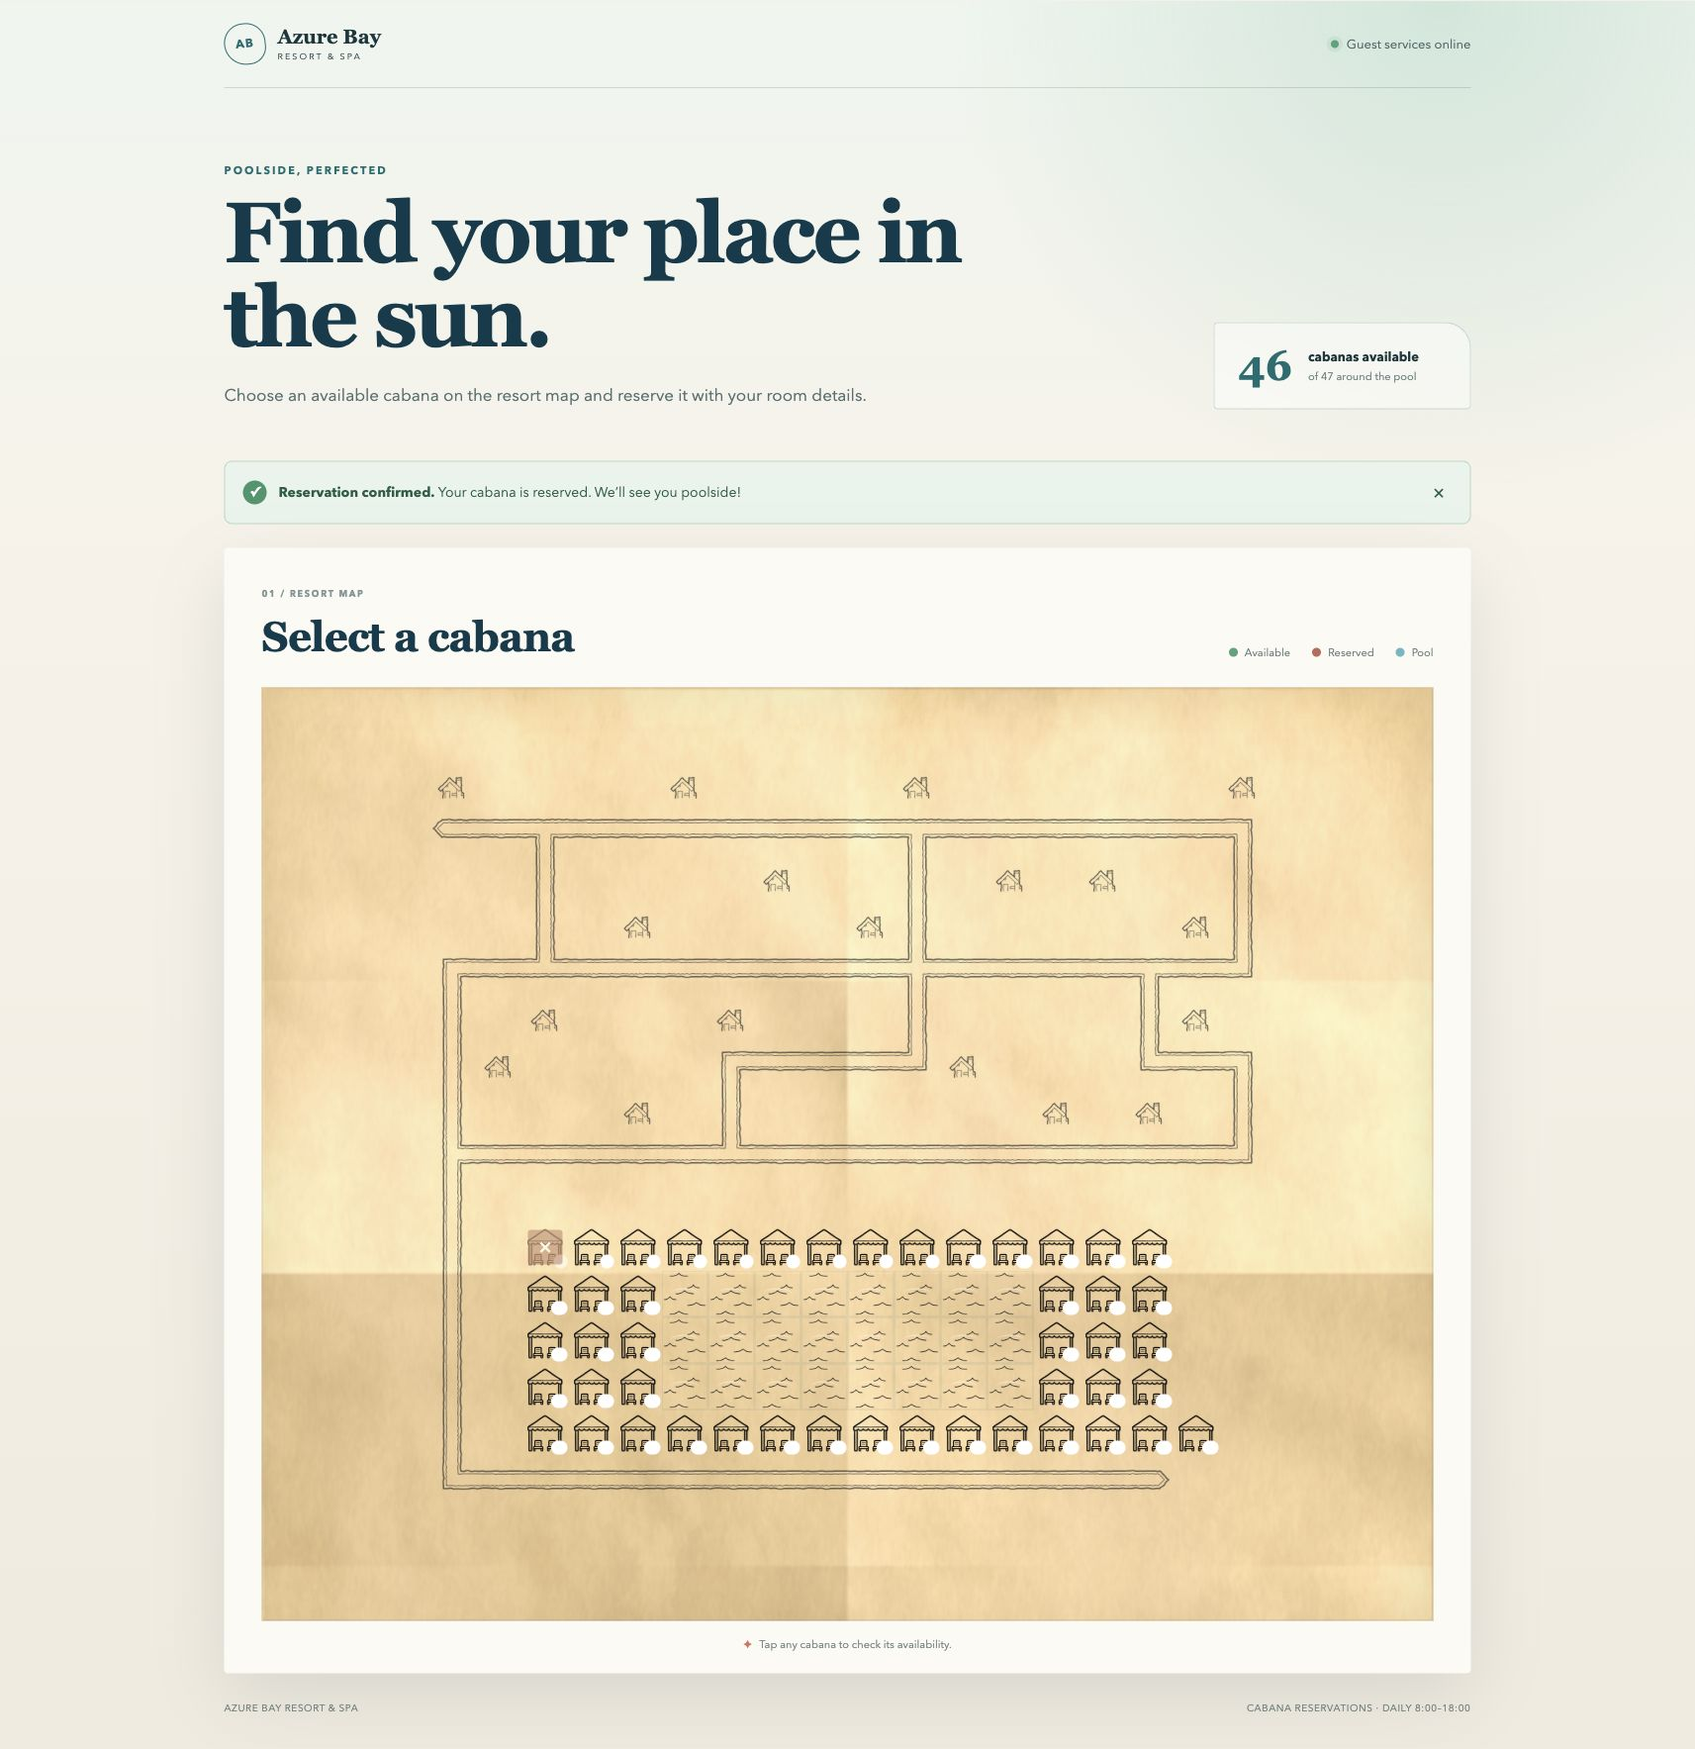
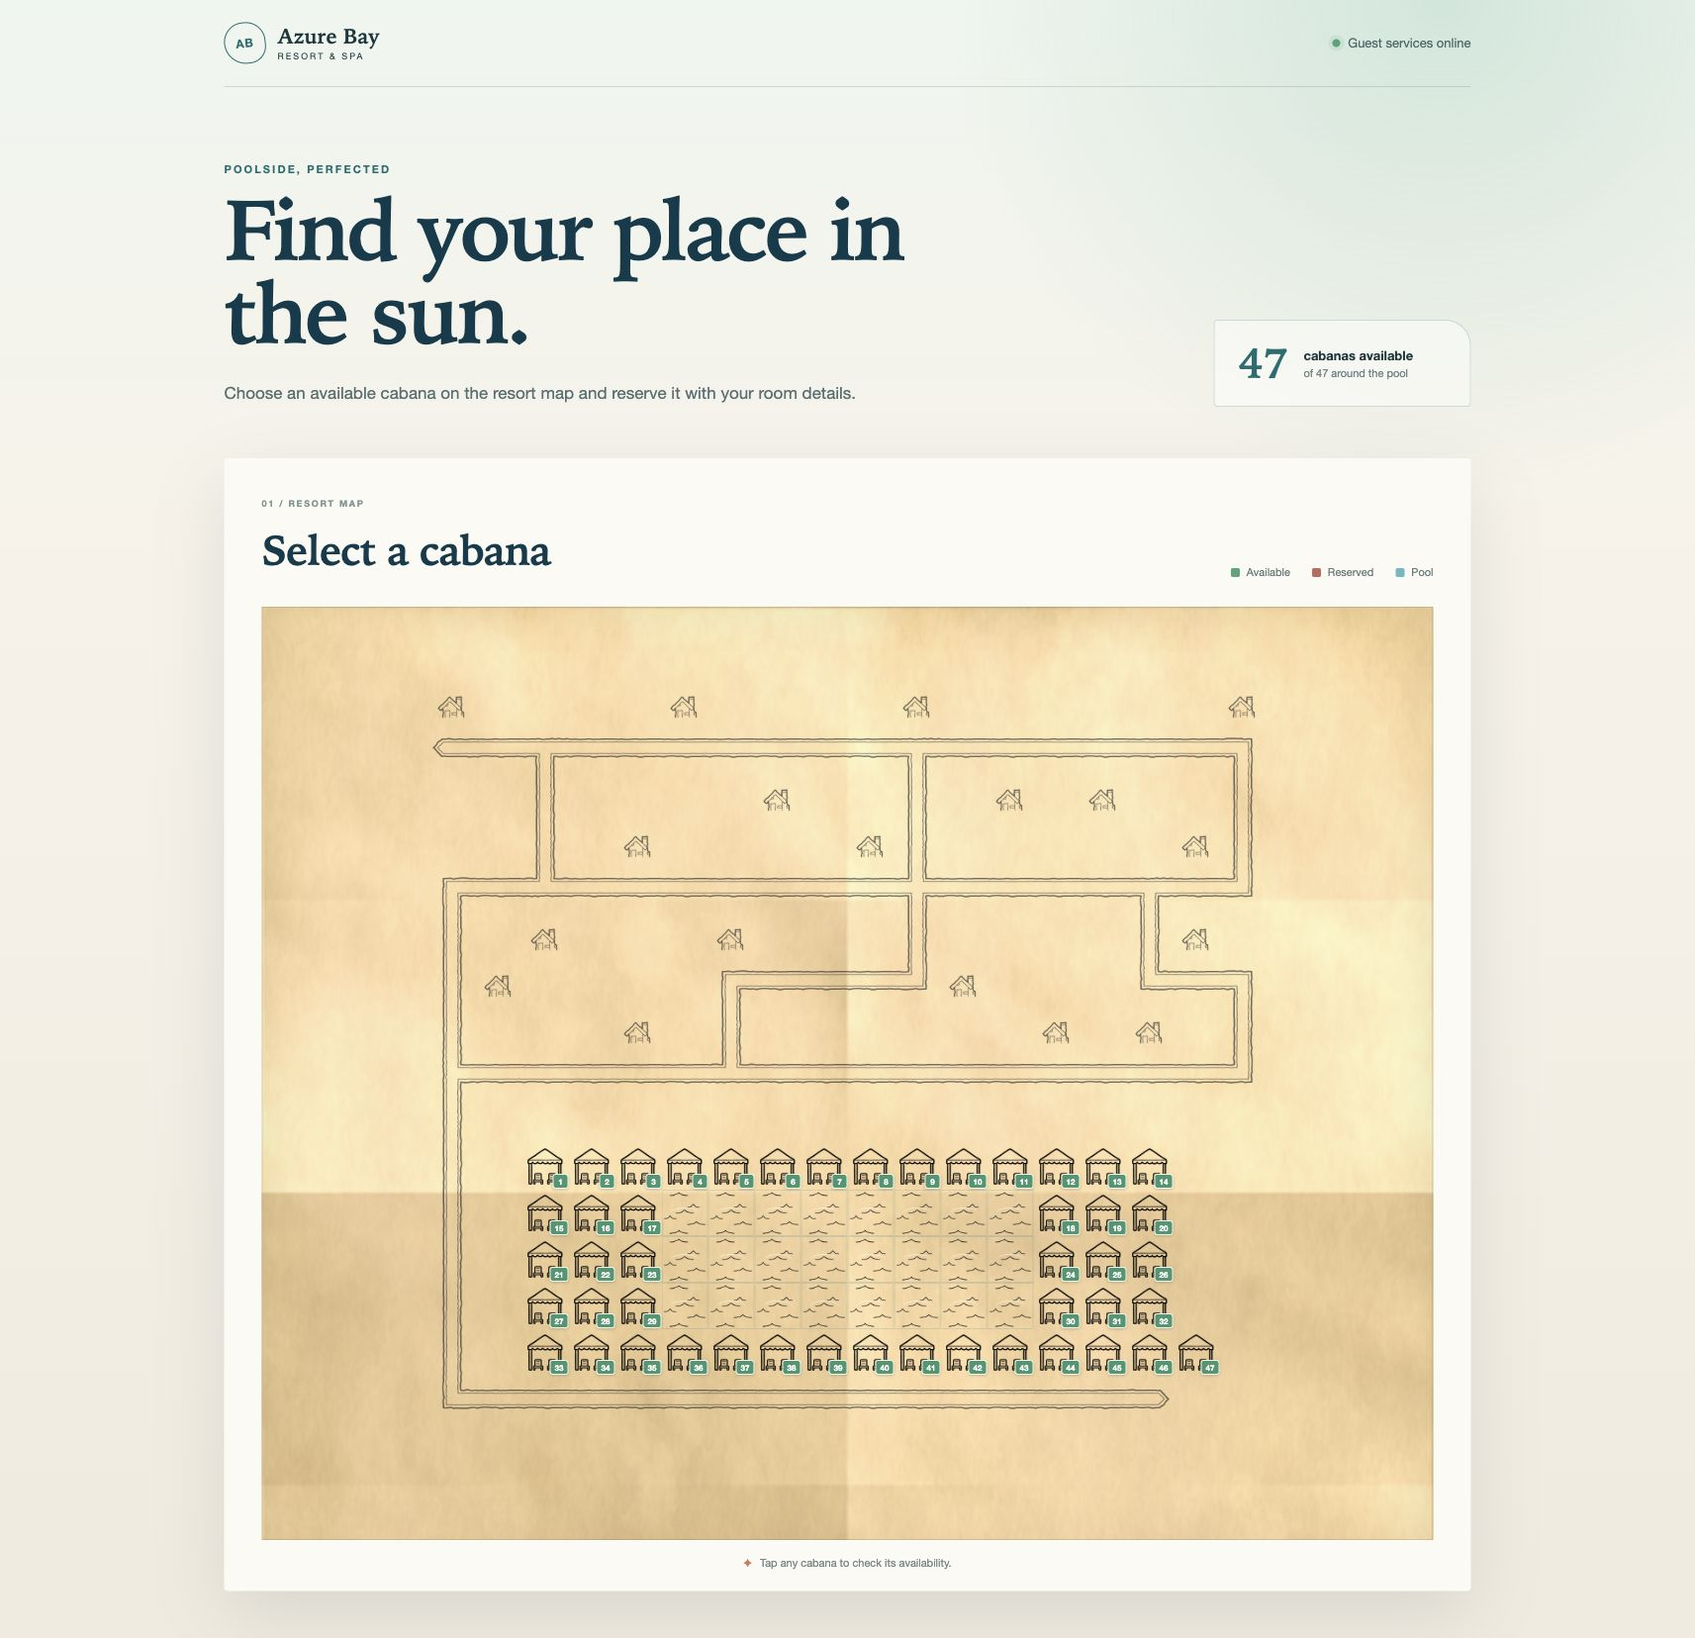
Improve resort map UI and test coverage

diff --git a/src/client/styles.css b/src/client/styles.css
@@ -1,5 +1,5 @@
 :root {
-  font-family: "Avenir Next", Avenir, "Segoe UI", sans-serif;
+  font-family: "Helvetica Neue", Helvetica, Arial, sans-serif;
   color: #17373b;
   background: #f4f1e8;
   font-synthesis: none;
@@ -56,13 +56,13 @@ button { cursor: pointer; }
   border: 1px solid var(--teal);
   border-radius: 50% 50% 44% 56%;
   color: var(--teal);
-  font: 700 12px/1 "Avenir Next", Avenir, "Segoe UI", sans-serif;
+  font: 700 12px/1 "Helvetica Neue", Helvetica, Arial, sans-serif;
   letter-spacing: .08em;
   transform: rotate(-6deg);
 }
 
 .brand > span:last-child { display: flex; flex-direction: column; }
-.brand strong { font-family: Georgia, "Times New Roman", serif; font-size: 20px; line-height: 1.05; }
+.brand strong { font-family: "Iowan Old Style", Baskerville, "Times New Roman", serif; font-size: 21px; line-height: 1.05; }
 .brand small { margin-top: 4px; font-size: 9px; letter-spacing: .23em; text-transform: uppercase; }
 
 .guest-service { display: flex; align-items: center; gap: 8px; color: #4b6868; font-size: 13px; }
@@ -87,7 +87,7 @@ main { width: min(1260px, calc(100% - 48px)); margin: 0 auto; }
   text-transform: uppercase;
 }
 
-h1, h2 { font-family: Georgia, "Times New Roman", serif; color: var(--deep); }
+h1, h2 { font-family: "Iowan Old Style", Baskerville, "Times New Roman", serif; color: var(--deep); font-weight: 600; }
 h1 { max-width: 790px; margin: 0; font-size: clamp(48px, 6.1vw, 86px); line-height: .98; letter-spacing: -.035em; }
 .intro-copy { max-width: 650px; margin: 24px 0 0; color: #557072; font-size: 17px; line-height: 1.65; }
 
@@ -103,7 +103,7 @@ h1 { max-width: 790px; margin: 0; font-size: clamp(48px, 6.1vw, 86px); line-heig
   backdrop-filter: blur(8px);
 }
 
-.availability-number { color: var(--teal); font: 600 42px/1 Georgia, "Times New Roman", serif; }
+.availability-number { color: var(--teal); font: 600 42px/1 "Iowan Old Style", Baskerville, "Times New Roman", serif; }
 .availability-card > span:last-child { display: flex; flex-direction: column; }
 .availability-card strong { font-size: 13px; }
 .availability-card small { margin-top: 3px; color: #6d8585; font-size: 11px; }
@@ -124,7 +124,7 @@ h1 { max-width: 790px; margin: 0; font-size: clamp(48px, 6.1vw, 86px); line-heig
 .confirmation-icon { width: 24px; height: 24px; display: grid; place-items: center; border-radius: 50%; background: #3b966c; color: white; font-weight: 700; }
 .confirmation button { margin-left: auto; border: 0; background: none; color: inherit; font-size: 22px; }
 
-.map-section { padding: 32px 38px 22px; border-radius: 4px; background: #fcfaf4; box-shadow: 0 24px 70px rgba(29, 63, 57, .12); }
+.map-section { margin-bottom: 48px; padding: 32px 38px 22px; border-radius: 4px; background: #fcfaf4; box-shadow: 0 24px 70px rgba(29, 63, 57, .12); }
 
 .map-heading { display: flex; align-items: end; justify-content: space-between; gap: 30px; padding: 8px 0 28px; }
 .map-heading h2 { margin: 0; font-size: clamp(30px, 3vw, 42px); letter-spacing: -.02em; }
@@ -132,7 +132,7 @@ h1 { max-width: 790px; margin: 0; font-size: clamp(48px, 6.1vw, 86px); line-heig
 
 .legend { display: flex; align-items: center; gap: 22px; color: #627a79; font-size: 11px; }
 .legend span { display: flex; align-items: center; gap: 7px; }
-.legend-dot { width: 9px; height: 9px; border-radius: 50%; }
+.legend-dot { width: 9px; height: 9px; border-radius: 2px; }
 .legend-dot.available { background: #49a47a; }
 .legend-dot.reserved { background: #bd6a5a; }
 .legend-dot.pool { background: #64b9c1; }
@@ -202,19 +202,24 @@ h1 { max-width: 790px; margin: 0; font-size: clamp(48px, 6.1vw, 86px); line-heig
 
 .cabana-number {
   position: absolute;
-  right: -1px;
-  bottom: 0;
-  min-width: 14px;
-  height: 14px;
-  padding: 0 3px;
+  right: -2px;
+  bottom: -1px;
+  min-width: 16px;
+  height: 15px;
+  padding: 0 4px;
   display: grid;
   place-items: center;
-  border-radius: 7px;
-  background: currentColor;
+  border: 1px solid rgba(255, 253, 248, .92);
+  border-radius: 3px;
   color: white;
   font-size: 8px;
   font-weight: 700;
+  line-height: 1;
+  box-shadow: 0 1px 3px rgba(23, 55, 59, .24);
 }
+
+.cabana.available .cabana-number { background: #3f966f; }
+.cabana.reserved .cabana-number { background: #b96051; }
 
 .reserved-mark { position: absolute; inset: 4px; display: grid; place-items: center; border-radius: 3px; background: rgba(141, 56, 47, .56); color: #fff; font-size: 22px; font-weight: 500; }
 
@@ -225,8 +230,6 @@ h1 { max-width: 790px; margin: 0; font-size: clamp(48px, 6.1vw, 86px); line-heig
 
 .map-tip { margin: 16px 0 0; color: #758988; font-size: 11px; text-align: center; }
 .map-tip span { color: var(--coral); margin-right: 5px; }
-
-footer { width: min(1260px, calc(100% - 48px)); margin: 0 auto; padding: 28px 0 36px; display: flex; justify-content: space-between; color: #718381; font-size: 10px; letter-spacing: .06em; text-transform: uppercase; }
 
 .dialog-backdrop { position: fixed; z-index: 20; inset: 0; padding: 24px; display: grid; place-items: center; overflow-y: auto; background: rgba(4, 35, 42, .62); backdrop-filter: blur(5px); animation: fade-in .16s ease-out; }
 .booking-dialog { position: relative; width: min(100%, 440px); padding: 38px 42px 34px; border-radius: 4px 34px 4px 4px; background: #fffdf8; box-shadow: 0 30px 90px rgba(0, 24, 31, .32); animation: rise-in .2s ease-out; }
@@ -253,19 +256,18 @@ footer { width: min(1260px, calc(100% - 48px)); margin: 0 auto; padding: 28px 0 
 @keyframes rise-in { from { transform: translateY(12px); opacity: .4; } }
 
 @media (max-width: 800px) {
-  .topbar, main, footer { width: min(100% - 28px, 1260px); }
+  .topbar, main { width: min(100% - 28px, 1260px); }
   .topbar { height: 72px; }
   .guest-service { font-size: 0; }
   .intro { padding: 48px 0 36px; align-items: stretch; flex-direction: column; gap: 26px; }
   h1 { font-size: clamp(45px, 13vw, 70px); }
   .availability-card { width: 100%; }
-  .map-section { margin-inline: -14px; padding: 26px 14px 18px; }
+  .map-section { margin: 0 -14px 24px; padding: 26px 14px 18px; }
   .map-heading { align-items: start; flex-direction: column; gap: 20px; }
   .legend { width: 100%; justify-content: space-between; gap: 8px; }
   .map-frame, .map-scroll, .map-message { min-height: 430px; }
   .map-scroll { place-items: center start; padding: 18px; }
   .resort-map { --tile-size: 29px; }
-  footer { gap: 20px; flex-direction: column; }
   .booking-dialog { padding: 32px 24px 28px; }
 }
 

diff --git a/src/server/resort.test.ts b/src/server/resort.test.ts
@@ -1,49 +1,83 @@
 // @vitest-environment node
 import { describe, expect, it } from "vitest";
-import { BookingError, InputError, parseGuests, parseMap, Resort } from "./resort";
+import { BookingError, parseGuests, parseMap, Resort } from "./resort";
+
+function expectBookingError(action: () => void, status: number): void {
+  try {
+    action();
+  } catch (error) {
+    expect(error).toBeInstanceOf(BookingError);
+    expect(error).toMatchObject({ status });
+    return;
+  }
+  throw new Error(`Expected booking to fail with status ${status}.`);
+}
+
+describe("input parsing", () => {
+  it("parses every map symbol, CRLF input, coordinates, and cabana labels", () => {
+    const tiles = parseMap(".#pcW\r\nW....\r\n");
+
+    expect(tiles.map((row) => row.map((tile) => tile.type))).toEqual([
+      ["empty", "path", "pool", "chalet", "cabana"],
+      ["cabana", "empty", "empty", "empty", "empty"],
+    ]);
+    expect(tiles[0][4]).toMatchObject({ x: 4, y: 0, cabanaId: "cabana-4-0", label: "Cabana 1" });
+    expect(tiles[1][0]).toMatchObject({ x: 0, y: 1, cabanaId: "cabana-0-1", label: "Cabana 2" });
+  });
+
+  it.each([
+    ["an empty map", "", "The map file is empty."],
+    ["unequal row widths", "..\n...", "Map row 2 has 3 columns; expected 2."],
+    ["an unknown symbol", ".X", 'Unsupported map symbol "X" at row 1, column 2.'],
+  ])("rejects %s", (_case, source, message) => {
+    expect(() => parseMap(source)).toThrow(message);
+  });
+
+  it("normalizes valid guest records", () => {
+    expect(parseGuests([{ room: " 101 ", guestName: " Alice Smith " }])).toEqual([
+      { room: "101", guestName: "Alice Smith" },
+    ]);
+  });
+
+  it.each([
+    ["a non-array root", {}, "The bookings file must contain a JSON array."],
+    ["a numeric room", [{ room: 101, guestName: "Alice" }], "Invalid guest entry at position 1."],
+    ["a missing guest name", [{ room: "101" }], "Invalid guest entry at position 1."],
+    ["a blank guest name", [{ room: "101", guestName: "  " }], "Invalid guest entry at position 1."],
+  ])("rejects guest data with %s", (_case, value, message) => {
+    expect(() => parseGuests(value)).toThrow(message);
+  });
+});
 
 describe("resort booking logic", () => {
-  it("parses the supported map symbols and labels cabanas", () => {
-    const tiles = parseMap("c#W\n.pp");
-
-    expect(tiles[0][0].type).toBe("chalet");
-    expect(tiles[0][1].type).toBe("path");
-    expect(tiles[0][2]).toMatchObject({
-      type: "cabana",
-      cabanaId: "cabana-2-0",
-      label: "Cabana 1",
-    });
-    expect(tiles[1][1].type).toBe("pool");
-  });
-
-  it("rejects malformed map and guest files with useful errors", () => {
-    expect(() => parseMap("..\n..."))
-      .toThrow(new InputError("Map row 2 has 3 columns; expected 2."));
-    expect(() => parseGuests([{ room: 101, guestName: "Alice" }]))
-      .toThrow("Invalid guest entry at position 1.");
-  });
-
-  it("books a cabana for a current guest and marks it unavailable", () => {
+  it("books a current guest case-insensitively and updates availability", () => {
     const resort = new Resort(parseMap("W"), [{ room: "101", guestName: "Alice Smith" }]);
 
-    const result = resort.bookCabana("cabana-0-0", "101", "  alice smith ");
+    const result = resort.bookCabana("cabana-0-0", " 101 ", "  alice smith ");
 
     expect(result.cabanaId).toBe("cabana-0-0");
-    expect(resort.getMap().summary.availableCabanas).toBe(0);
-    expect(resort.getMap().tiles[0][0].available).toBe(false);
+    expect(resort.getMap()).toMatchObject({
+      summary: { totalCabanas: 1, availableCabanas: 0 },
+      tiles: [[{ available: false }]],
+    });
   });
 
-  it("rejects invalid guest details and duplicate bookings", () => {
+  it.each([
+    ["an unknown cabana", "cabana-9-9", "101", "Alice Smith", 404],
+    ["missing guest details", "cabana-0-0", "", "Alice Smith", 400],
+    ["a non-current guest", "cabana-0-0", "999", "Someone Else", 422],
+  ])("rejects %s", (_case, cabanaId, room, guestName, status) => {
     const resort = new Resort(parseMap("W"), [{ room: "101", guestName: "Alice Smith" }]);
+    expectBookingError(() => resort.bookCabana(cabanaId, room, guestName), status);
+  });
 
-    expect(() => resort.bookCabana("cabana-0-0", "999", "Someone Else"))
-      .toThrow(BookingError);
-
+  it("rejects a duplicate booking with conflict status", () => {
+    const resort = new Resort(parseMap("W"), [{ room: "101", guestName: "Alice Smith" }]);
     resort.bookCabana("cabana-0-0", "101", "Alice Smith");
-    try {
-      resort.bookCabana("cabana-0-0", "101", "Alice Smith");
-    } catch (error) {
-      expect(error).toMatchObject({ status: 409 });
-    }
+
+    expectBookingError(
+      () => resort.bookCabana("cabana-0-0", "101", "Alice Smith"),
+      409,
+    );
   });
 });

diff --git a/src/server/app.test.ts b/src/server/app.test.ts
@@ -11,7 +11,7 @@ function testApp() {
 
 describe("REST API", () => {
   it("returns the map and cabana availability", async () => {
-    const response = await request(testApp()).get("/api/map").expect(200);
+    const response = await request(testApp()).get("/api/map").expect("content-type", /json/).expect(200);
 
     expect(response.body).toMatchObject({
       width: 2,
@@ -43,12 +43,26 @@ describe("REST API", () => {
     expect(conflict.body.message).toContain("no longer available");
   });
 
-  it("returns a human-readable error for invalid guest details", async () => {
+  it.each([
+    ["missing guest details", "cabana-0-0", {}, 400, "Enter both"],
+    ["an invalid guest", "cabana-0-0", { room: "999", guestName: "Unknown Guest" }, 422, "couldn’t match"],
+    ["an unknown cabana", "cabana-9-9", { room: "101", guestName: "Alice Smith" }, 404, "find that cabana"],
+  ])("returns a JSON error for %s", async (_case, cabanaId, body, status, message) => {
     const response = await request(testApp())
-      .post("/api/cabanas/cabana-0-0/bookings")
-      .send({ room: "999", guestName: "Unknown Guest" })
-      .expect(422);
+      .post(`/api/cabanas/${cabanaId}/bookings`)
+      .send(body)
+      .expect("content-type", /json/)
+      .expect(status);
 
-    expect(response.body.message).toContain("couldn’t match");
+    expect(response.body.message).toContain(message);
+  });
+
+  it("returns a JSON 404 for unknown API routes", async () => {
+    const response = await request(testApp())
+      .get("/api/not-a-route")
+      .expect("content-type", /json/)
+      .expect(404);
+
+    expect(response.body).toEqual({ message: "API route not found." });
   });
 });

diff --git a/src/client/App.test.tsx b/src/client/App.test.tsx
@@ -55,8 +55,27 @@ describe("cabana booking UI", () => {
     expect(screen.getByText("0")).toBeInTheDocument();
     expect(fetchMock).toHaveBeenLastCalledWith(
       "/api/cabanas/cabana-0-0/bookings",
-      expect.objectContaining({ method: "POST" }),
+      expect.objectContaining({
+        method: "POST",
+        headers: { "content-type": "application/json" },
+        body: JSON.stringify({ room: "101", guestName: "Alice Smith" }),
+      }),
     );
+  });
+
+  it("shows a map error and retries the API request", async () => {
+    const fetchMock = vi.fn()
+      .mockResolvedValueOnce(jsonResponse({}, false))
+      .mockResolvedValueOnce(jsonResponse(mapWithAvailability(true)));
+    vi.stubGlobal("fetch", fetchMock);
+    const user = userEvent.setup();
+
+    render(<App />);
+    expect(await screen.findByRole("alert")).toHaveTextContent("map is unavailable");
+    await user.click(screen.getByRole("button", { name: "Try again" }));
+
+    expect(await screen.findByRole("button", { name: "Cabana 1, available" })).toBeInTheDocument();
+    expect(fetchMock).toHaveBeenCalledTimes(2);
   });
 
   it("shows the API validation message and keeps the form open", async () => {

diff --git a/src/server/options.test.ts b/src/server/options.test.ts
@@ -1,0 +1,39 @@
+// @vitest-environment node
+import path from "node:path";
+import { describe, expect, it } from "vitest";
+import { parseOptions } from "./options";
+
+const cwd = "/review/project";
+
+describe("server CLI options", () => {
+  it("uses working-directory defaults", () => {
+    expect(parseOptions([], cwd)).toEqual({
+      mapPath: path.join(cwd, "map.ascii"),
+      bookingsPath: path.join(cwd, "bookings.json"),
+      port: 3000,
+      dev: false,
+    });
+  });
+
+  it("accepts custom input files, port, and development mode", () => {
+    expect(parseOptions([
+      "--map", "fixtures/map.ascii",
+      "--bookings", "fixtures/guests.json",
+      "--port", "4321",
+      "--dev",
+    ], cwd)).toEqual({
+      mapPath: path.join(cwd, "fixtures/map.ascii"),
+      bookingsPath: path.join(cwd, "fixtures/guests.json"),
+      port: 4321,
+      dev: true,
+    });
+  });
+
+  it.each([
+    [["--map"], "Missing value"],
+    [["--port", "0"], "Port must be"],
+    [["--unknown", "value"], "Unknown option"],
+  ])("rejects invalid arguments %#", (args, message) => {
+    expect(() => parseOptions(args, cwd)).toThrow(message);
+  });
+});

diff --git a/src/client/App.tsx b/src/client/App.tsx
@@ -13,7 +13,7 @@ type CabanaTile = Tile & { cabanaId: string; label: string; available: boolean }
 async function getMap(): Promise<ResortMap> {
   const response = await fetch("/api/map");
   if (!response.ok) throw new Error("The resort map is unavailable right now.");
-  return response.json() as Promise<ResortMap>;
+  return response.json();
 }
 
 function isCabana(tile: Tile): tile is CabanaTile {
@@ -135,11 +135,6 @@ function App(): React.JSX.Element {
           <p className="map-tip"><span aria-hidden="true">✦</span> Tap any cabana to check its availability.</p>
         </section>
       </main>
-
-      <footer>
-        <span>Azure Bay Resort &amp; Spa</span>
-        <span>Cabana reservations · Daily 8:00–18:00</span>
-      </footer>
 
       {selectedCabana && (
         <BookingDialog

diff --git a/AI.md b/AI.md
@@ -10,5 +10,3 @@ The work took six main steps:
 4. Built the responsive tile map and one-step accessible booking flow using the supplied artwork.
 5. Added domain, API, and UI tests, then fixed issues found by type-checking and test runs.
 6. Ran the finished app in a browser, checked the core flow, and captured the repository screenshot.
-
-Tools used were Codex file editing and terminal tools, npm, TypeScript, Vitest, Testing Library, Supertest, and browser automation for the final run and screenshot. No sub-agents were used. The AI generated implementation and documentation changes, while the supplied brief and files remained the source of product requirements and test data.
